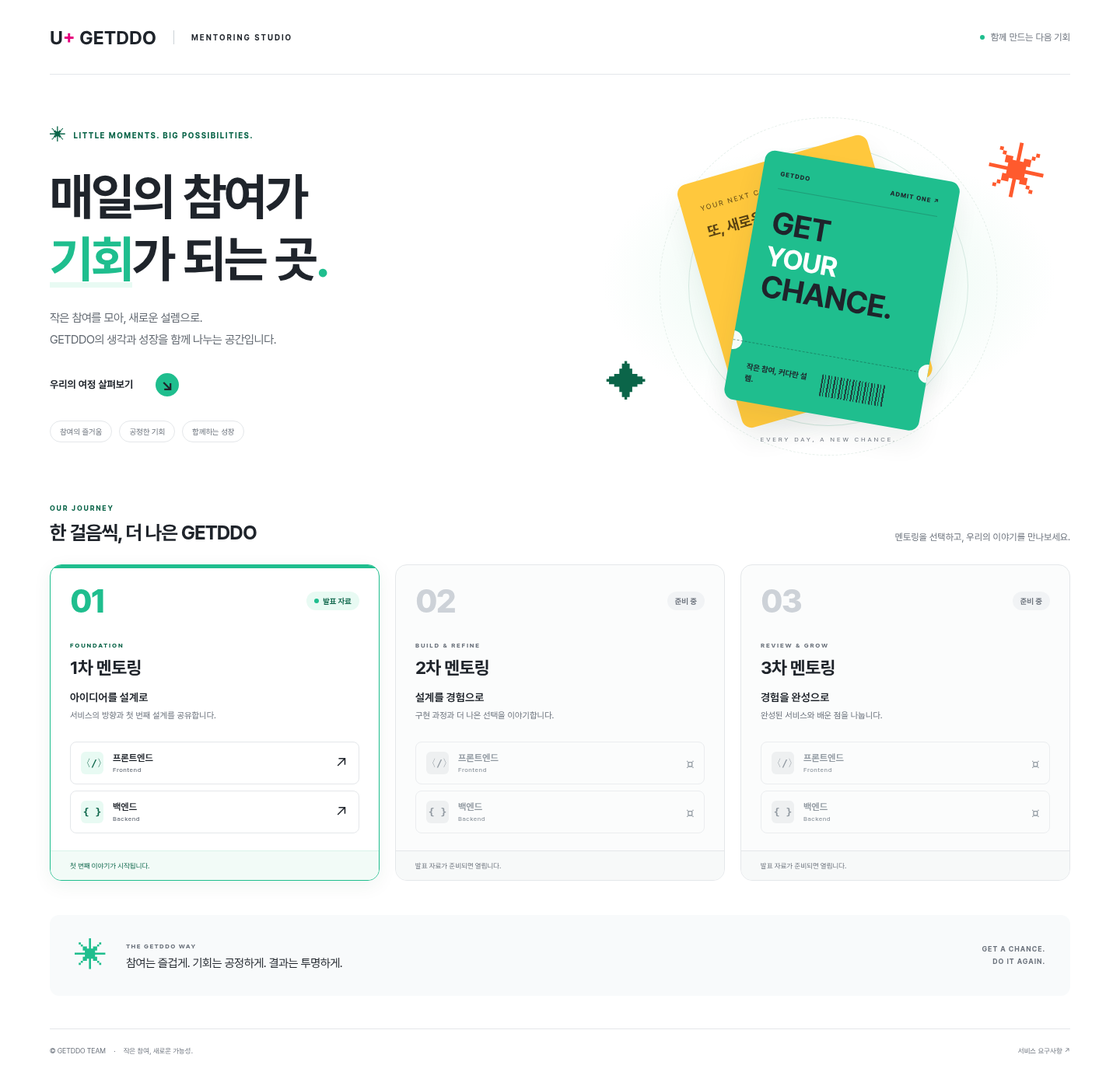
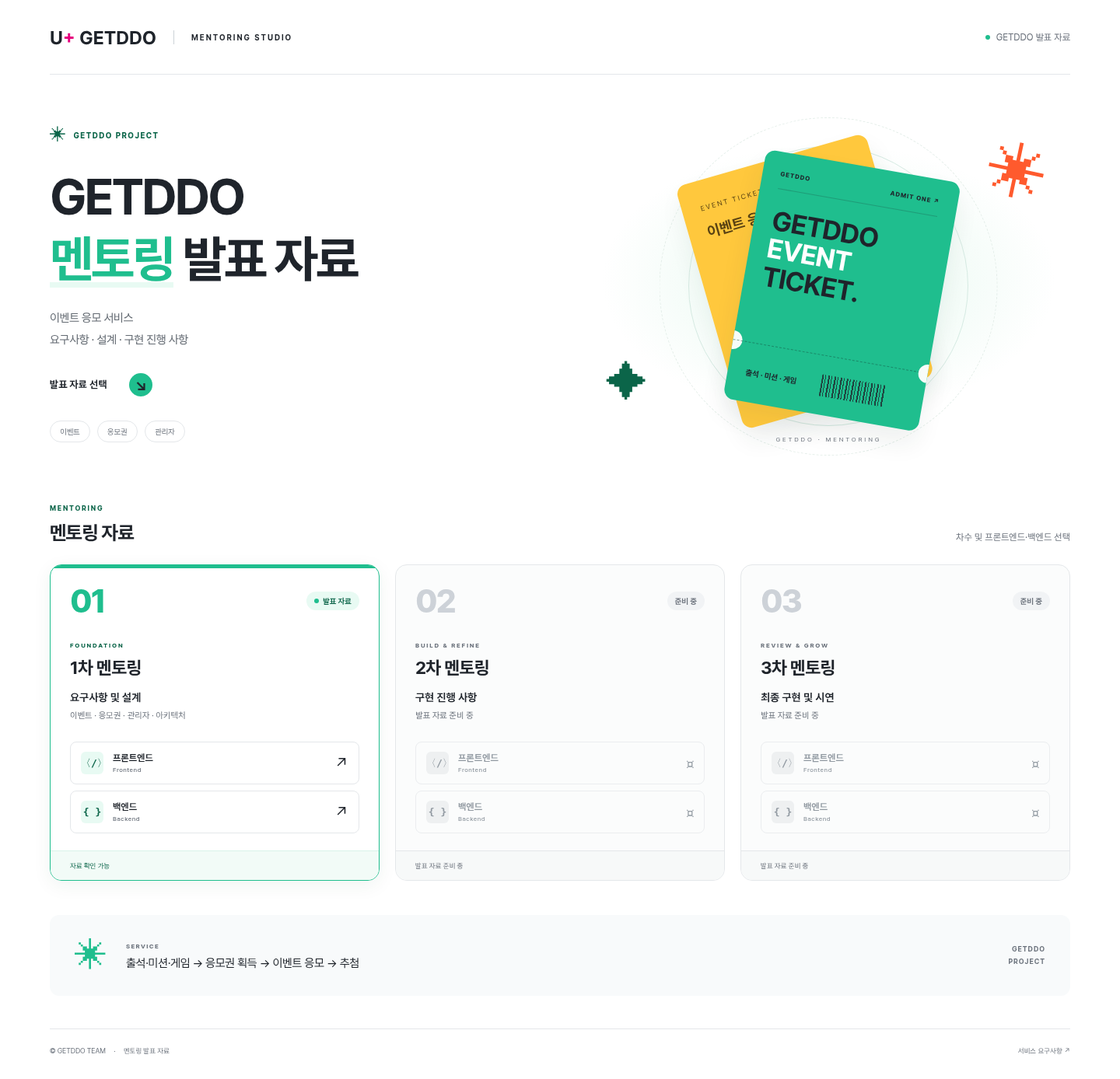
feat: simplify presentation copy and explain event types

diff --git a/site/content.js b/site/content.js
@@ -1,45 +1,55 @@
 // 발표 내용은 이 파일에서 편집합니다. 사용 가능한 레이아웃은 README.md 참고.
 export const tracks = {
-  frontend: { name: '프론트엔드', english: 'Frontend', short: 'FE', description: '참여하고 싶은 경험을 설계합니다.' },
-  backend: { name: '백엔드', english: 'Backend', short: 'BE', description: '신뢰할 수 있는 기회를 설계합니다.' },
+  frontend: { name: '프론트엔드', english: 'Frontend', short: 'FE', description: '화면 및 API 연동' },
+  backend: { name: '백엔드', english: 'Backend', short: 'BE', description: 'API 및 데이터 처리' },
 };
 
 // 표지·목차·요구사항은 두 트랙이 같은 데이터를 사용합니다.
 const commonSlides = [
   {
-    type: 'cover', shared: true, title: '작은 참여가,\n새로운 기회로.', label: '01 / FIRST MENTORING',
-    description: '출석·미션·게임으로 응모권을 모으고,\n이벤트 응모를 통해 새로운 기회를 만나는 서비스.',
-    tags: ['참여의 즐거움', '공정한 기회', '투명한 결과'],
+    type: 'cover', shared: true, title: 'GETDDO\n1차 멘토링', label: 'MENTORING 01',
+    description: '출석·미션·게임 기반 이벤트 응모 서비스',
+    tags: ['이벤트', '응모권', '관리자'],
   },
   {
-    type: 'agenda', shared: true, title: '오늘, 함께 나눌 이야기', label: 'CONTENTS',
-    description: '서비스의 방향부터 설계의 고민까지.',
+    type: 'agenda', shared: true, title: '목차', label: 'CONTENTS', description: '',
     items: [
-      { title: '요구사항', description: '7가지 핵심 기능으로 보는 서비스', target: 2 },
-      { title: '아키텍처', description: '그 경험을 어떻게 연결할 것인가', target: 4 },
-      { title: '질문 & 논의', description: '더 나은 결정을 위해 함께 고민할 것', target: 5 },
+      { title: '이벤트', description: '이벤트 유형 · 모집 시간 · 응모 방식', target: 2 },
+      { title: '응모권', description: '획득 · 차감 · 만료 · 반환', target: 3 },
+      { title: '관리자', description: '이벤트 운영 · 추첨 · 어뷰징 검토', target: 4 },
+      { title: '아키텍처', description: '구성 및 연동', target: 5 },
+      { title: '질문', description: '확인할 정책과 설계', target: 6 },
     ],
   },
   {
-    type: 'cards', shared: true, title: '응모권을 모으고, 기회에 응모합니다.',
-    label: '01 / REQUIREMENTS · 1 OF 2', description: '사용자 경험을 만드는 4가지 핵심 기능',
+    type: 'cards', shared: true, title: '이벤트', label: '01 / EVENTS',
+    description: '응모권 미사용 이벤트 / 지정 시각에 모집하는 응모권 사용 이벤트',
     cards: [
-      { label: '01 · EARN', title: '출석·미션·게임', text: '출석, 설문·퀴즈·연속 출석 미션, 게임 플레이를 통해 응모권을 지급합니다.', tag: '참여 → 응모권 획득', tone: 'mint' },
-      { label: '02 · TICKETS', title: '응모권 관리', text: '보유량과 지급·차감 이력을 조회하고, 월별 만료와 이벤트 취소 등에 따른 반환을 관리합니다.', tag: '지급 · 차감 · 만료 · 반환', tone: 'yellow' },
-      { label: '03 · ENTER', title: '이벤트 탐색·응모', text: '이벤트와 멤버십 자격을 확인하고, 응모권 사용·미사용 이벤트에 응모합니다.', tag: '탐색 → 자격 확인 → 응모', tone: 'pink' },
-      { label: '04 · LIVE', title: '실시간 응모 현황', text: '응모자 수와 전체·본인이 응모에 차감한 응모권 수를 자동 갱신합니다.', tag: '응모 현황 자동 갱신', tone: 'mint' },
+      { label: '01', title: '응모권 미사용', text: '응모 기간 내 사용자당 1회 응모. 응모권 차감 없이 이벤트 자체에 응모. 마감·검토 후 관리자 수동 추첨.', tag: '응모권 0장 · 사용자당 1회', tone: 'mint' },
+      { label: '02', title: '응모권 사용', text: '지정 시각에 모집 시작, 설정된 마감 시각까지 접수. 이벤트당 모집 회차 1개. 마감 후 자동 추첨.', tag: '예: 15:00~15:10 모집 · 시간 설정 가능', tone: 'yellow' },
+      { label: '03', title: '가중치·경품 구성', text: '가중치 적용: 여러 장 차감·추가 응모 가능. 미적용: 1장 차감·사용자당 1회. 단일 경품 또는 등수별 여러 경품 구성.', tag: '멤버십 등급별 응모 자격', tone: 'pink' },
     ],
-    footnote: '2026.09.17 요구사항 기준 · 주간 미션 보류 · 미션 인증 제출·관리자 승인 기능 제외',
+    footnote: '응모자 수·차감 응모권 수 자동 갱신 · 관리자 승인 후 결과 발표 · 자동 추첨 시 미검토 건 처리 정책은 미정',
   },
   {
-    type: 'cards', shared: true, title: '추첨부터 결과까지, 신뢰를 만듭니다.',
-    label: '01 / REQUIREMENTS · 2 OF 2', description: '공정한 기회와 안정적인 운영을 위한 3가지 핵심 기능',
+    type: 'cards', shared: true, title: '응모권', label: '02 / TICKETS',
+    description: '이벤트 공통 응모권 · 보유량 및 지급·차감 이력 조회',
     cards: [
-      { label: '05 · DRAW', title: '추첨·당첨자 관리', text: '이벤트 유형별 자동·수동 추첨과 중복 당첨 방지, 추첨 근거 보관·재현, 당첨 취소·재추첨을 지원합니다.', tag: '추첨 → 검증 → 이력 보존', tone: 'mint' },
-      { label: '06 · RESULTS', title: '결과 발표·알림', text: '관리자 승인 후 결과를 공개합니다. 본인 당첨 결과와 이벤트 시작·결과 알림, 알림함·읽음 처리를 제공합니다.', tag: '발표 → 결과 확인 → 알림', tone: 'yellow' },
-      { label: '07 · OPERATIONS', title: '관리자 운영·어뷰징 대응', text: '이벤트·경품·보상·배너를 관리하고, 의심 응모 검토·추첨 대상 제외와 부정 획득 응모권 회수 이력을 관리합니다.', tag: '운영 관리 · 부정 이용 대응', tone: 'pink' },
+      { label: '01', title: '획득', text: '출석: 하루 1장. 일회성 미션: 설문·퀴즈·연속 출석. 게임: 하루 1회 1장 보상.', tag: '주간 미션 보류', tone: 'mint' },
+      { label: '02', title: '차감·내역', text: '응모권 사용 이벤트에 응모할 때 차감. 보유량과 지급·차감 내역 확인. 중복 지급 및 보유량 초과 차감 방지.', tag: '응모 기록·차감·이력 함께 처리', tone: 'yellow' },
+      { label: '03', title: '만료·반환', text: '월별 잔여 응모권 만료. 이벤트 취소 및 추첨 대상 제외 시 해당 응모의 차감분 반환. 반환·만료 내역 보관.', tag: '반환 시점·유효기간 세부 정책 미정', tone: 'pink' },
     ],
-    footnote: '2026.09.17 요구사항 기준 · 부정 획득분 회수는 최신 백오피스 항목 기준이며, 6절 제외 문구와의 정리가 필요합니다.',
+    footnote: '게임 일일 보상의 전체 합산·게임별 기준 미정 · 부정 획득 응모권은 별도 회수 정책 적용',
+  },
+  {
+    type: 'cards', shared: true, title: '관리자', label: '03 / ADMIN',
+    description: '이벤트·보상 운영, 추첨 결과 관리 및 어뷰징 검토',
+    cards: [
+      { label: '01', title: '운영 관리', text: '이벤트·경품·응모 조건 설정. 출석·미션·게임 보상 관리. 배너 등록·수정·삭제. 이벤트 중단·재개·취소.', tag: '중단: 일시 정지 / 취소: 최종 종료', tone: 'mint' },
+      { label: '02', title: '추첨·결과 발표', text: '당첨자 및 추첨 이력 조회·재현. 사유를 기록한 수동 재추첨. 관리자 승인 후 결과 공개 및 응모자 알림.', tag: '알림함 · 읽음 처리 · 모의 발송', tone: 'yellow' },
+      { label: '03', title: '어뷰징 검토', text: '의심 응모 확인 후 참여 허용 또는 추첨 대상 제외. 부정 획득 응모권 회수. 처리 사유·담당자·이력 기록.', tag: '일반 응모권 임의 지급·잔액 수정 제외', tone: 'pink' },
+    ],
+    footnote: '미션 인증 제출·관리자 승인 기능 제외 · 부정 획득분 회수는 최신 백오피스 항목 기준, 6절 제외 문구 정리 필요',
   },
 ];
 
@@ -48,8 +58,8 @@ const makeSlides = (track) => {
   return [
     ...commonSlides,
     {
-      type: 'architecture', title: frontend ? '하나의 흐름으로 이어지는 경험' : '신뢰를 만드는 처리의 흐름',
-      label: '02 / ARCHITECTURE', description: '설계 논의용 템플릿 · 실제 기술 스택과 연결 구조를 이 자리에 추가하세요.',
+      type: 'architecture', title: '아키텍처',
+      label: '04 / ARCHITECTURE', description: '구성 초안 · 기술 스택 및 연결 구조 작성 예정',
       nodes: frontend ? [
         { title: '사용자 화면', subtitle: '이벤트 · 출석 · 게임', detail: '화면 / 컴포넌트' },
         { title: '상태 & 요청', subtitle: '로딩 · 성공 · 오류', detail: '상태 관리 / API 연동' },
@@ -70,32 +80,32 @@ const makeSlides = (track) => {
       ],
     },
     {
-      type: 'questions', title: '더 좋은 기회를,\n함께 만들어 가려면.', label: '03 / QUESTIONS & DISCUSSION',
-      description: '설계의 선택과 아직 남아 있는 고민을 나눕니다.',
+      type: 'questions', title: '질문', label: '05 / QUESTIONS',
+      description: '정책 및 구현 관련 확인 사항',
       questions: frontend ? [
-        '응모에서 결과 확인까지, 사용자에게 꼭 필요한 피드백은 무엇일까요?',
-        '실시간 갱신 방식과 화면 상태를 어떤 기준으로 나누면 좋을까요?',
-        '멱등 키·에러 코드·페이지네이션 계약을 어떻게 맞출까요?',
+        '응모·결과 확인 화면의 필수 상태와 안내 범위?',
+        '실시간 현황 갱신 방식과 주기?',
+        '멱등 키·에러 코드·페이지네이션 연동 계약?',
       ] : [
-        '응모 승인 시점과 마감 경계는 어떤 처리 단계로 정의할까요?',
-        '중단·취소와 동시 응모, 응모권 반환 순서를 어떻게 보장할까요?',
-        '관리자 응모권 회수 범위와 시간대 정책의 상충 내용을 어떻게 확정할까요?',
+        '응모 접수 완료 시점과 마감 경계 처리 기준?',
+        '이벤트 중단·취소와 동시 응모의 처리 순서?',
+        '자동 추첨 시 미검토 탐지 건 및 월 경계 반환 처리?',
       ],
-      footnote: '질문 예시입니다. 멘토링 전 팀의 실제 고민으로 교체하세요.',
+      footnote: '논의 항목 초안',
     },
   ];
 };
 
 // 2·3차는 해당 트랙에 slides를 추가하고 enabled: true로 바꾸면 열립니다.
 export const rounds = [
-  { id: '1', title: '1차 멘토링', subtitle: '아이디어를 설계로', description: '서비스의 방향과 첫 번째 설계를 공유합니다.', stage: 'FOUNDATION', decks: {
+  { id: '1', title: '1차 멘토링', subtitle: '요구사항 및 설계', description: '이벤트 · 응모권 · 관리자 · 아키텍처', stage: 'FOUNDATION', decks: {
     frontend: { enabled: true, slides: makeSlides('frontend') },
     backend: { enabled: true, slides: makeSlides('backend') },
   } },
-  { id: '2', title: '2차 멘토링', subtitle: '설계를 경험으로', description: '구현 과정과 더 나은 선택을 이야기합니다.', stage: 'BUILD & REFINE', decks: {
+  { id: '2', title: '2차 멘토링', subtitle: '구현 진행 사항', description: '발표 자료 준비 중', stage: 'BUILD & REFINE', decks: {
     frontend: { enabled: false, slides: [] }, backend: { enabled: false, slides: [] },
   } },
-  { id: '3', title: '3차 멘토링', subtitle: '경험을 완성으로', description: '완성된 서비스와 배운 점을 나눕니다.', stage: 'REVIEW & GROW', decks: {
+  { id: '3', title: '3차 멘토링', subtitle: '최종 구현 및 시연', description: '발표 자료 준비 중', stage: 'REVIEW & GROW', decks: {
     frontend: { enabled: false, slides: [] }, backend: { enabled: false, slides: [] },
   } },
 ];

diff --git a/site/app.js b/site/app.js
@@ -14,10 +14,10 @@ function ticketArt() {
   return `<div class="ticket-art" aria-hidden="true">
     <span class="orbit orbit-one"></span><span class="orbit orbit-two"></span>
     <span class="art-spark spark-one">✳</span><span class="art-spark spark-two">✦</span>
-    <div class="ticket ticket-back"><span>YOUR NEXT CHANCE</span><b>또, 새로운 기회.</b></div>
+    <div class="ticket ticket-back"><span>EVENT TICKET</span><b>이벤트 응모권</b></div>
     <div class="ticket ticket-front"><div class="ticket-top"><span>GETDDO</span><span>ADMIT ONE ↗</span></div>
-    <strong>GET<br><span>YOUR</span> CHANCE.</strong><div class="ticket-bottom"><span>작은 참여, 커다란 설렘.</span><span class="barcode"></span></div></div>
-    <span class="art-label">EVERY DAY, A NEW CHANCE.</span>
+    <strong>GETDDO<br><span>EVENT</span> TICKET.</strong><div class="ticket-bottom"><span>출석 · 미션 · 게임</span><span class="barcode"></span></div></div>
+    <span class="art-label">GETDDO · MENTORING</span>
   </div>`;
 }
 
@@ -27,29 +27,29 @@ function home(message = '') {
   document.title = 'GETDDO — Mentoring Studio';
   document.body.classList.remove('presenting');
   app.innerHTML = `<div class="home-shell">
-    <header class="site-header"><a class="brand" href="#/" aria-label="GETDDO 홈">${logo}<span class="brand-divider"></span><span class="brand-caption">MENTORING STUDIO</span></a><span class="header-note"><i></i> 함께 만드는 다음 기회</span></header>
+    <header class="site-header"><a class="brand" href="#/" aria-label="GETDDO 홈">${logo}<span class="brand-divider"></span><span class="brand-caption">MENTORING STUDIO</span></a><span class="header-note"><i></i> GETDDO 발표 자료</span></header>
     <main id="main" tabindex="-1">
       ${message ? `<p class="notice" role="alert">${escape(message)}</p>` : ''}
-      <section class="hero"><div class="hero-copy"><span class="eyebrow"><span class="tiny-star">✳</span> LITTLE MOMENTS. BIG POSSIBILITIES.</span>
-        <h1>매일의 참여가<br><span class="mint-word">기회</span>가 되는 곳<span class="title-dot">.</span></h1>
-        <p>작은 참여를 모아, 새로운 설렘으로.<br>GETDDO의 생각과 성장을 함께 나누는 공간입니다.</p>
-        <a class="hero-cta" href="#sessions">우리의 여정 살펴보기 <span>↘</span></a>
-        <div class="hero-keywords"><span>참여의 즐거움</span><span>공정한 기회</span><span>함께하는 성장</span></div>
+      <section class="hero"><div class="hero-copy"><span class="eyebrow"><span class="tiny-star">✳</span> GETDDO PROJECT</span>
+        <h1>GETDDO<br><span class="mint-word">멘토링</span> 발표 자료</h1>
+        <p>이벤트 응모 서비스<br>요구사항 · 설계 · 구현 진행 사항</p>
+        <a class="hero-cta" href="#sessions">발표 자료 선택 <span>↘</span></a>
+        <div class="hero-keywords"><span>이벤트</span><span>응모권</span><span>관리자</span></div>
       </div>${ticketArt()}</section>
-      <section class="sessions" id="sessions" aria-labelledby="sessions-title"><div class="section-heading"><div><span class="eyebrow">OUR JOURNEY</span><h2 id="sessions-title">한 걸음씩, 더 나은 GETDDO</h2></div><p>멘토링을 선택하고, 우리의 이야기를 만나보세요.</p></div>
+      <section class="sessions" id="sessions" aria-labelledby="sessions-title"><div class="section-heading"><div><span class="eyebrow">MENTORING</span><h2 id="sessions-title">멘토링 자료</h2></div><p>차수 및 프론트엔드·백엔드 선택</p></div>
       <div class="round-grid">${rounds.map(round => {
         const ready = Object.values(round.decks).some(available);
-        return `<article class="round-card ${ready ? 'ready' : ''}"><div class="round-top"><span class="round-number">${number(round.id)}</span><span class="status ${ready ? 'open' : ''}">${ready ? '<i></i> 발표 자료' : '준비 중'}</span></div><span class="round-stage">${escape(round.stage)}</span><h3>${escape(round.title)}</h3><h4>${escape(round.subtitle)}</h4><p>${escape(round.description)}</p><div class="track-links">${Object.entries(tracks).map(([key, track]) => available(round.decks[key]) ? `<a href="${route(round.id, key)}"><span class="track-icon">${key === 'frontend' ? '〈/〉' : '{ }'}</span><span>${track.name}<small>${track.english}</small></span><span class="link-arrow">↗</span></a>` : `<button disabled aria-label="${round.title} ${track.name} 준비 중"><span class="track-icon">${key === 'frontend' ? '〈/〉' : '{ }'}</span><span>${track.name}<small>${track.english}</small></span><span class="lock-icon" aria-hidden="true">⌑</span></button>`).join('')}</div><div class="round-footer">${ready ? '첫 번째 이야기가 시작됩니다.' : '발표 자료가 준비되면 열립니다.'}</div></article>`;
+        return `<article class="round-card ${ready ? 'ready' : ''}"><div class="round-top"><span class="round-number">${number(round.id)}</span><span class="status ${ready ? 'open' : ''}">${ready ? '<i></i> 발표 자료' : '준비 중'}</span></div><span class="round-stage">${escape(round.stage)}</span><h3>${escape(round.title)}</h3><h4>${escape(round.subtitle)}</h4><p>${escape(round.description)}</p><div class="track-links">${Object.entries(tracks).map(([key, track]) => available(round.decks[key]) ? `<a href="${route(round.id, key)}"><span class="track-icon">${key === 'frontend' ? '〈/〉' : '{ }'}</span><span>${track.name}<small>${track.english}</small></span><span class="link-arrow">↗</span></a>` : `<button disabled aria-label="${round.title} ${track.name} 준비 중"><span class="track-icon">${key === 'frontend' ? '〈/〉' : '{ }'}</span><span>${track.name}<small>${track.english}</small></span><span class="lock-icon" aria-hidden="true">⌑</span></button>`).join('')}</div><div class="round-footer">${ready ? '자료 확인 가능' : '발표 자료 준비 중'}</div></article>`;
       }).join('')}</div></section>
-      <section class="concept-strip"><span class="concept-mark" aria-hidden="true">✳</span><div><span class="eyebrow">THE GETDDO WAY</span><p>참여는 즐겁게. 기회는 공정하게. 결과는 투명하게.</p></div><span class="concept-end">GET A CHANCE.<br>DO IT AGAIN.</span></section>
-    </main><footer class="site-footer"><span>© GETDDO TEAM <span class="footer-dot">·</span> 작은 참여, 새로운 가능성.</span><a href="requirements.md" target="_blank" rel="noopener">서비스 요구사항 ↗</a></footer>
+      <section class="concept-strip"><span class="concept-mark" aria-hidden="true">✳</span><div><span class="eyebrow">SERVICE</span><p>출석·미션·게임 → 응모권 획득 → 이벤트 응모 → 추첨</p></div><span class="concept-end">GETDDO<br>PROJECT</span></section>
+    </main><footer class="site-footer"><span>© GETDDO TEAM <span class="footer-dot">·</span> 멘토링 발표 자료</span><a href="requirements.md" target="_blank" rel="noopener">서비스 요구사항 ↗</a></footer>
   </div>`;
 }
 
 function renderBody(slide) {
   switch (slide.type) {
     case 'cover': return `<div class="cover-copy"><h1>${lines(slide.title)}</h1><p>${lines(slide.description)}</p><div class="slide-tags">${(slide.tags || []).map(tag => `<span>${escape(tag)}</span>`).join('')}</div></div>${ticketArt()}`;
-    case 'agenda': return `<div class="agenda-list">${slide.items.map((item, i) => `<button class="agenda-item" data-goto="${item.target}"><span>${number(i + 1)}</span><strong>${escape(item.title)}</strong><p>${escape(item.description)}</p><b aria-hidden="true">↗</b></button>`).join('')}</div>`;
+    case 'agenda': return `<div class="agenda-list ${slide.items.length > 3 ? 'compact' : ''}">${slide.items.map((item, i) => `<button class="agenda-item" data-goto="${item.target}"><span>${number(i + 1)}</span><strong>${escape(item.title)}</strong><p>${escape(item.description)}</p><b aria-hidden="true">↗</b></button>`).join('')}</div>`;
     case 'cards': return `<div class="content-card-grid ${slide.cards.length === 4 ? 'four-cards' : ''}">${slide.cards.map(card => `<article class="content-card ${['mint', 'yellow', 'pink'].includes(card.tone) ? card.tone : 'mint'}"><span class="eyebrow">${escape(card.label)}</span><h2>${escape(card.title)}</h2><p>${escape(card.text)}</p><span class="card-tag">${escape(card.tag)}</span></article>`).join('')}</div>`;
     case 'architecture': return `<div class="architecture-flow">${slide.nodes.map((node, i) => `${i ? '<span class="flow-arrow" aria-hidden="true">→</span>' : ''}<article class="arch-node"><span class="node-number">${number(i + 1)}</span><h2>${escape(node.title)}</h2><p>${escape(node.subtitle)}</p><span>${escape(node.detail)}</span></article>`).join('')}</div><div class="architecture-notes">${slide.notes.map(([label, text]) => `<div><strong>${escape(label)}</strong><p>${escape(text)}</p></div>`).join('')}</div>`;
     case 'questions': return `<div class="questions-layout"><div><span class="question-mark" aria-hidden="true">Q<span>&</span>A</span><p>${escape(slide.description)}</p></div><ol class="question-list">${slide.questions.map((question, i) => `<li><span>${number(i + 1)}</span><p>${escape(question)}</p></li>`).join('')}</ol></div>`;
@@ -73,7 +73,7 @@ function renderDeck(round, trackKey, index) {
   document.body.classList.add('presenting');
   app.innerHTML = `<div class="deck-shell">
     <header class="deck-header"><a class="brand" href="#/" aria-label="GETDDO 홈">${logo}</a><div class="deck-breadcrumb"><a href="#/">멘토링</a><span>/</span><span>${escape(round.title)}</span><span>/</span><strong>${track.name}</strong></div><button class="icon-button fullscreen-button" data-action="fullscreen" aria-label="전체 화면">⛶ <span>전체 화면</span></button></header>
-    <div class="deck-workspace"><aside class="slide-outline ${overviewOpen ? 'is-open' : ''}" aria-label="슬라이드 목록"><div class="outline-heading"><span>SLIDE INDEX</span><span>${number(deck.slides.length)}</span></div>${deck.slides.map((item, i) => `<a class="outline-item ${index === i ? 'active' : ''}" href="${route(round.id, trackKey, i)}" ${index === i ? 'aria-current="step"' : ''}><span>${number(i + 1)}</span><div class="mini-preview mini-${escape(item.type)}"><span>${escape(item.label || item.type)}</span><b>${escape(item.title).replaceAll('\n', '<br>')}</b><i></i></div><span class="outline-title">${escape(({ cover: '표지', agenda: '목차', cards: '요구사항', architecture: '아키텍처', questions: '질문 & 논의' })[item.type] || item.title)}</span></a>`).join('')}<a class="back-home" href="#/">← 멘토링 홈</a></aside>
+    <div class="deck-workspace"><aside class="slide-outline ${overviewOpen ? 'is-open' : ''}" aria-label="슬라이드 목록"><div class="outline-heading"><span>SLIDE INDEX</span><span>${number(deck.slides.length)}</span></div>${deck.slides.map((item, i) => `<a class="outline-item ${index === i ? 'active' : ''}" href="${route(round.id, trackKey, i)}" ${index === i ? 'aria-current="step"' : ''}><span>${number(i + 1)}</span><div class="mini-preview mini-${escape(item.type)}"><span>${escape(item.label || item.type)}</span><b>${escape(item.title).replaceAll('\n', '<br>')}</b><i></i></div><span class="outline-title">${escape(({ cover: '표지', agenda: '목차', cards: item.title, architecture: '아키텍처', questions: '질문' })[item.type] || item.title)}</span></a>`).join('')}<a class="back-home" href="#/">← 멘토링 홈</a></aside>
     <main class="presentation-main" id="main" tabindex="-1"><div class="slide-fit"><article class="slide slide-${escape(slide.type)}" aria-label="${index + 1} / ${deck.slides.length}: ${escape(slide.title)}"><div class="slide-top"><span>${escape(slide.label || `${number(index + 1)} / ${slide.type.toUpperCase()}`)}</span><span>${slide.shared ? 'COMMON' : track.english.toUpperCase()} <i>●</i> ${escape(round.title)}</span></div>
     ${slide.type !== 'cover' ? `<div class="slide-heading"><h1>${lines(slide.title)}</h1>${slide.type !== 'questions' ? `<p>${escape(slide.description || '')}</p>` : ''}</div>` : ''}
     <div class="slide-content">${renderBody(slide)}</div>

diff --git a/site/index.html b/site/index.html
@@ -4,7 +4,7 @@
     <meta charset="utf-8">
     <meta name="viewport" content="width=device-width, initial-scale=1">
     <meta name="theme-color" content="#1FBE8E">
-    <meta name="description" content="매일의 참여가 기회가 되는 곳. GETDDO 팀의 멘토링 발표 자료입니다.">
+    <meta name="description" content="GETDDO 멘토링 발표 자료 — 이벤트, 응모권, 관리자 및 아키텍처">
     <title>GETDDO — Mentoring Studio</title>
     <link rel="icon" href="assets/logo.svg" type="image/svg+xml">
     <link rel="stylesheet" href="styles.css">

diff --git a/site/styles.css b/site/styles.css
@@ -1564,3 +1564,8 @@ kbd {
   font-size:11px;
   padding-top:10px;
 }
+
+.agenda-list.compact { margin-top:20px; }
+.compact .agenda-item { padding:16px 18px; }
+.compact .agenda-item>strong { font-size:23px; }
+.ticket-front>strong { font-size:35px; }

diff --git a/README.md b/README.md
@@ -15,7 +15,7 @@ python3 -m http.server 4173 --directory site
 ## 화면 구성
 
 - 메인: 1·2·3차 멘토링 → 프론트엔드 / 백엔드 선택
-- 1차: 공통 표지 · 목차 · 요구사항 2장 → 트랙별 아키텍처 · 질문, 각 6장
+- 1차: 공통 표지 · 목차 · 이벤트 · 응모권 · 관리자 → 트랙별 아키텍처 · 질문, 각 7장
 - 2·3차: 준비 중, 링크 및 직접 URL 접근 비활성화
 - 발표: 좌측 슬라이드 목록, 이전/다음, 전체 화면, 현재 슬라이드 주소 공유
 - 방향키 / Page Up·Down / Space: 이동, Home·End: 첫 장·마지막 장
@@ -80,7 +80,7 @@ frontend: {
 
 ## 디자인과 요구사항
 
-- 컨셉: **매일의 참여가 기회가 되는 곳**
+- 발표 구성: **이벤트 · 응모권 · 관리자**
 - 브랜드: `#1FBE8E`, 소프트 민트 `#E8FAF3`
 - 응모권: 오렌지 `#FF5A2D`, 노랑 `#FFC83D`
 - 원본 로고의 U+ 마젠타는 유지합니다.

diff --git a/docs/implementation-plan.md b/docs/implementation-plan.md
@@ -21,3 +21,6 @@ Source committed and pushed to GETDDO/.github main. On 2026-09-17, the user appr
 
 ## Shared requirements update
 Cover, agenda and two requirement slides share one data source across tracks. Seven high-level feature groups use the 2026-09-17 requirements snapshot. Architecture and questions remain track-specific. Verified shared data equality, seven groups, agenda destinations and all browser checks.
+
+## Presentation copy revision
+Replaced promotional copy with short headings and feature descriptions. Shared sections: cover, agenda, events, tickets, admin. Events describe ticket-free entries, scheduled ticket-based enrollment, weights and prize configurations. Five agenda destinations; seven slides per track.
